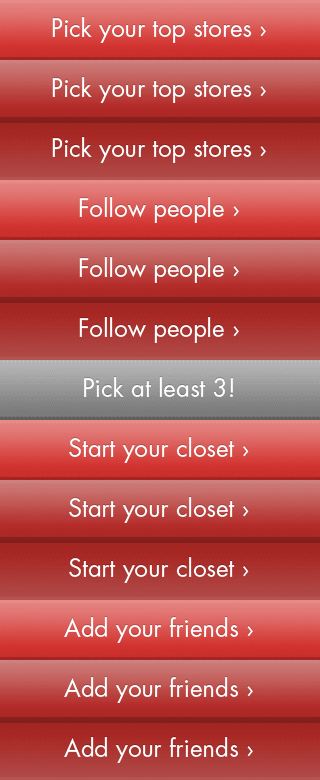
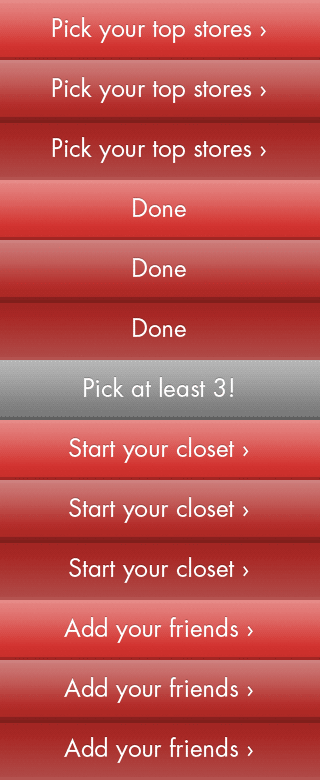
store picker done

Changed region(s): [[0.25, 0.3077, 0.75, 0.3692], [0.25, 0.4, 0.75, 0.4308], [0.25, 0.2462, 0.75, 0.2769]]

diff --git a/public/stylesheets/application.css b/public/stylesheets/application.css
@@ -534,6 +534,8 @@ div.welcome_text {
 
 #stores, #users, #items {
   text-align: center; }
+
+#stores { padding: 0 56px; }
  
 #items { padding: 0 95px; }
 
@@ -636,6 +638,9 @@ div.welcome_text {
   /* for user imgs */ }
 
 #users.main .picker_choice:hover .left {
+	border-radius: 3px 0 0 3px;
+  -moz-border-radius: 3px 0 0 3px;
+	-webkit-border-radius: 3px 0 0 3px;
   -moz-opacity: 0.8;
   opacity: .80;
   filter: alpha(opacity=80);
@@ -656,7 +661,10 @@ div.welcome_text {
   width: 112px;
   height: 42px;
   padding: 8px 8px 10px 10px;
-  background: white; }
+  background: white; 
+  border-radius: 0px 3px 3px 0px;
+  -moz-border-radius: 0px 3px 3px 0px;
+	-webkit-border-radius: 0px 3px 3px 0px; }
 
 #users .picker_choice .right {
   color: #555555;
